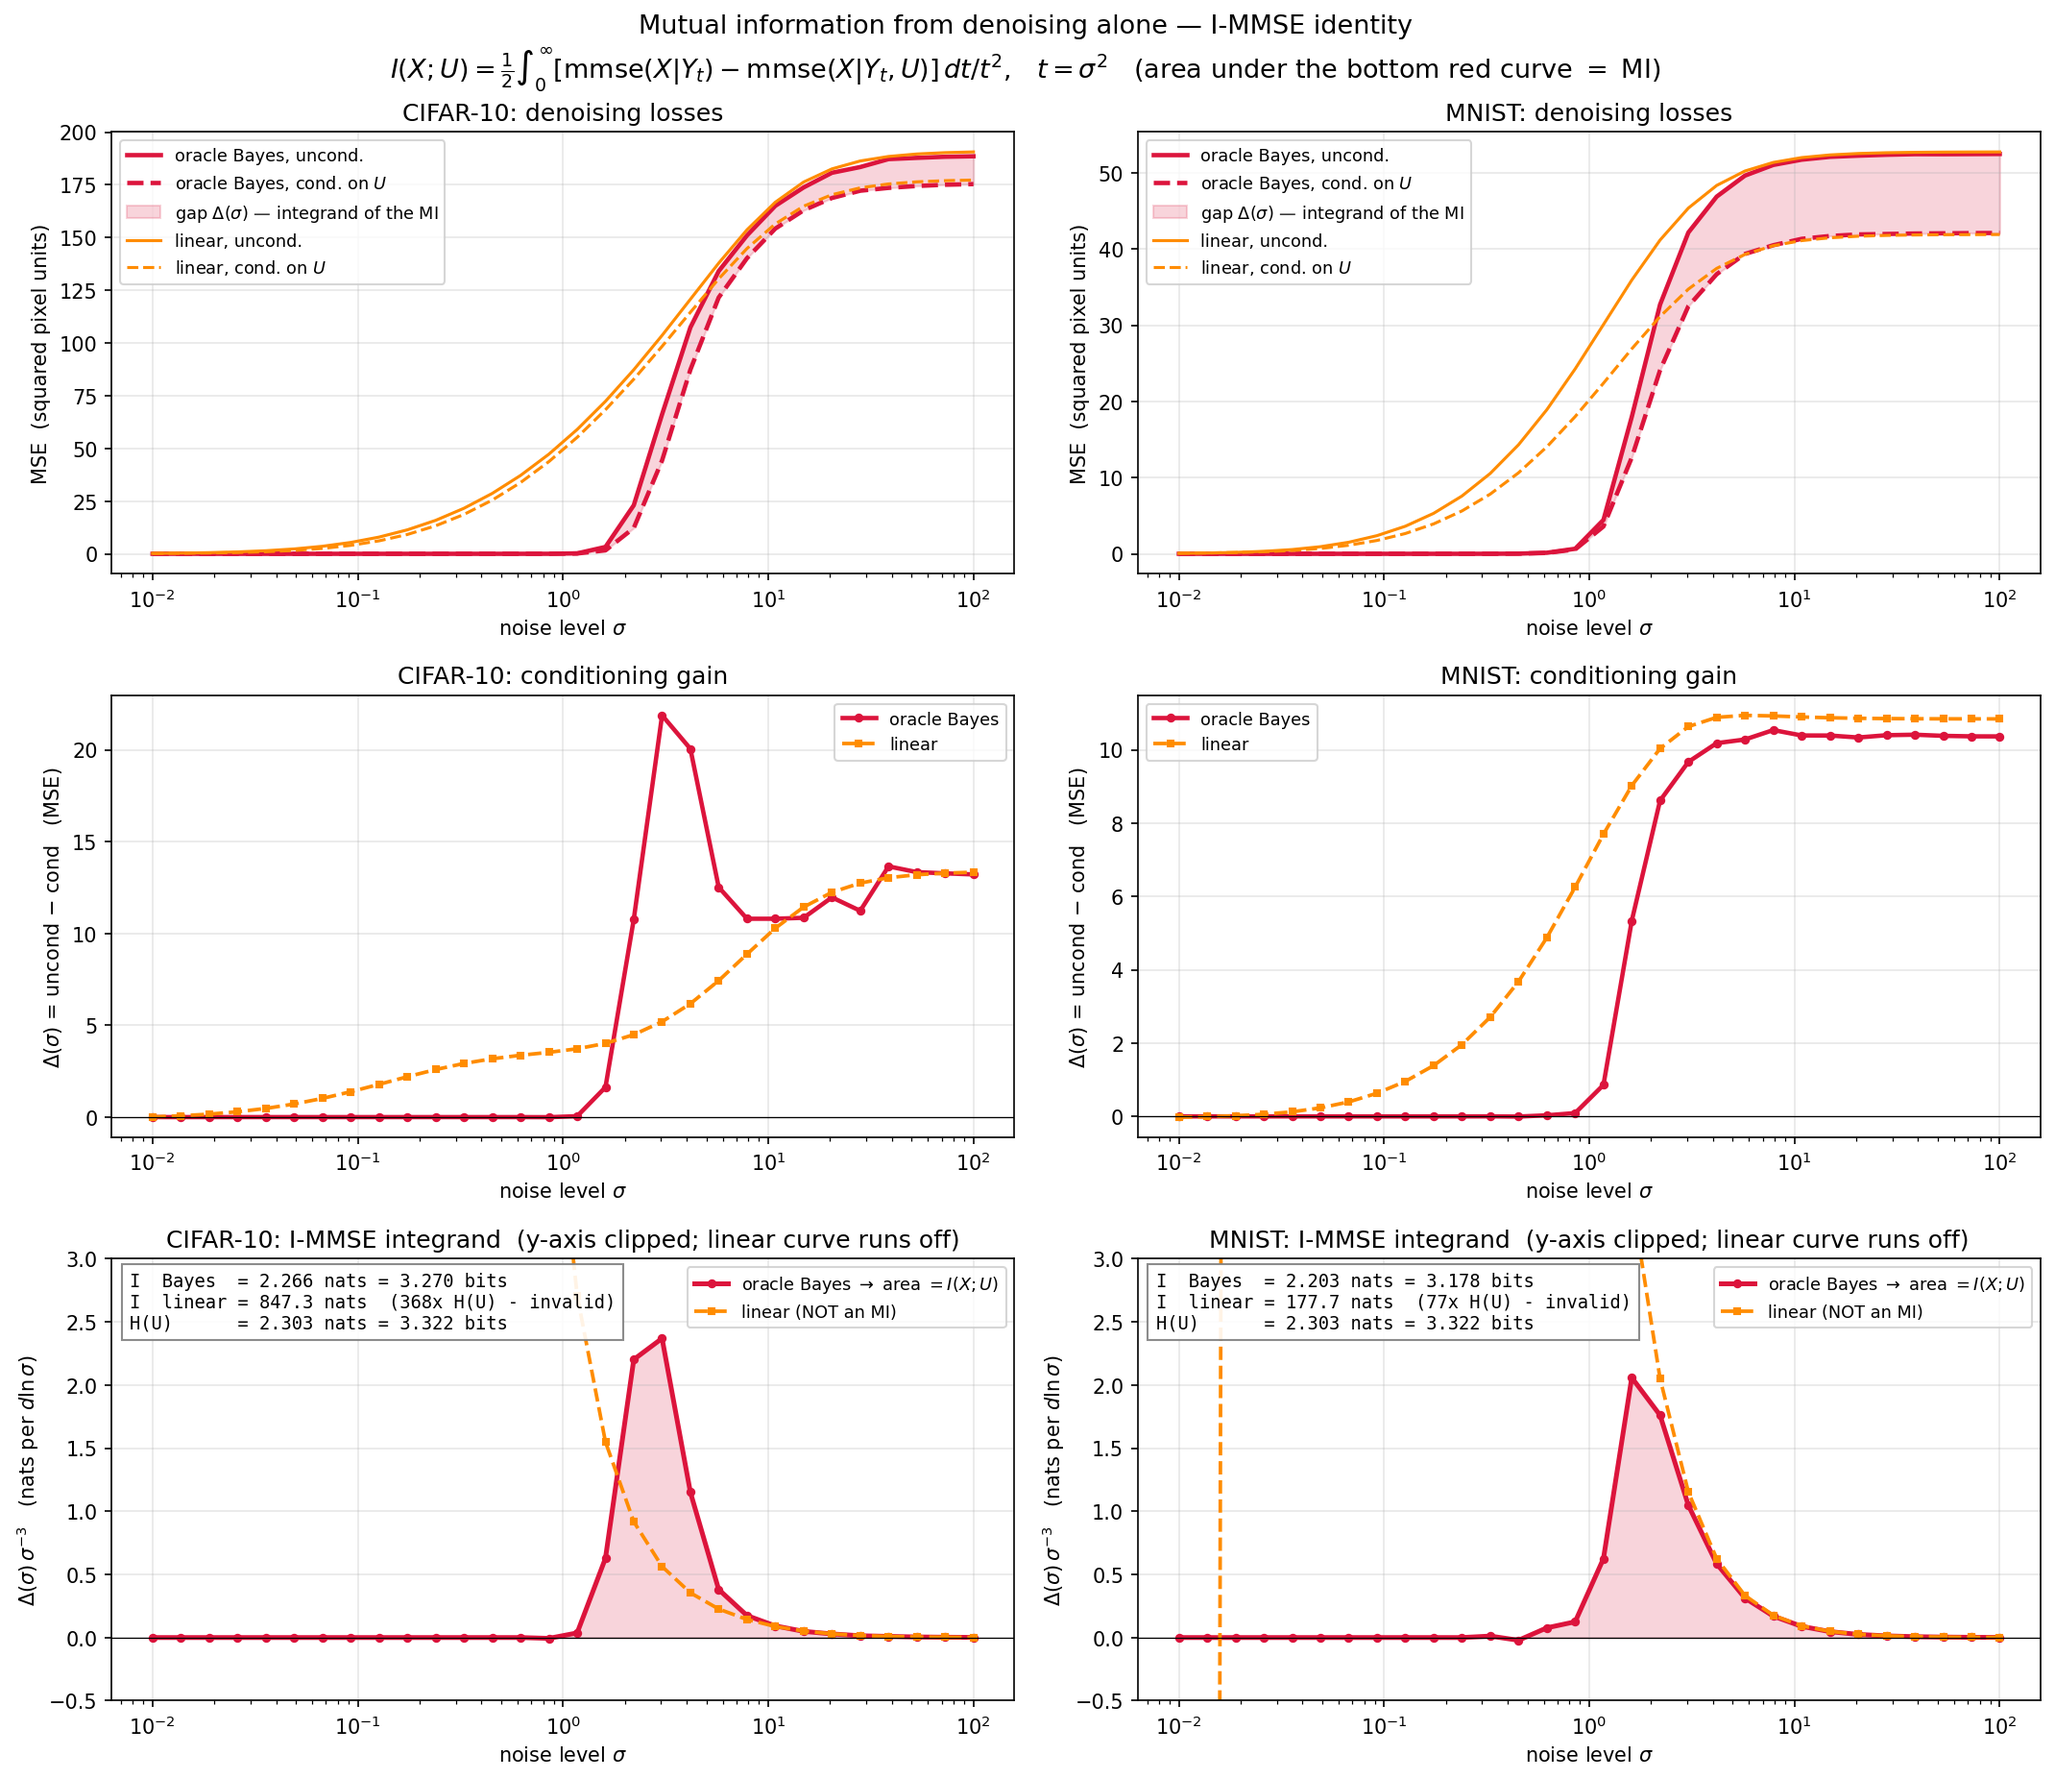
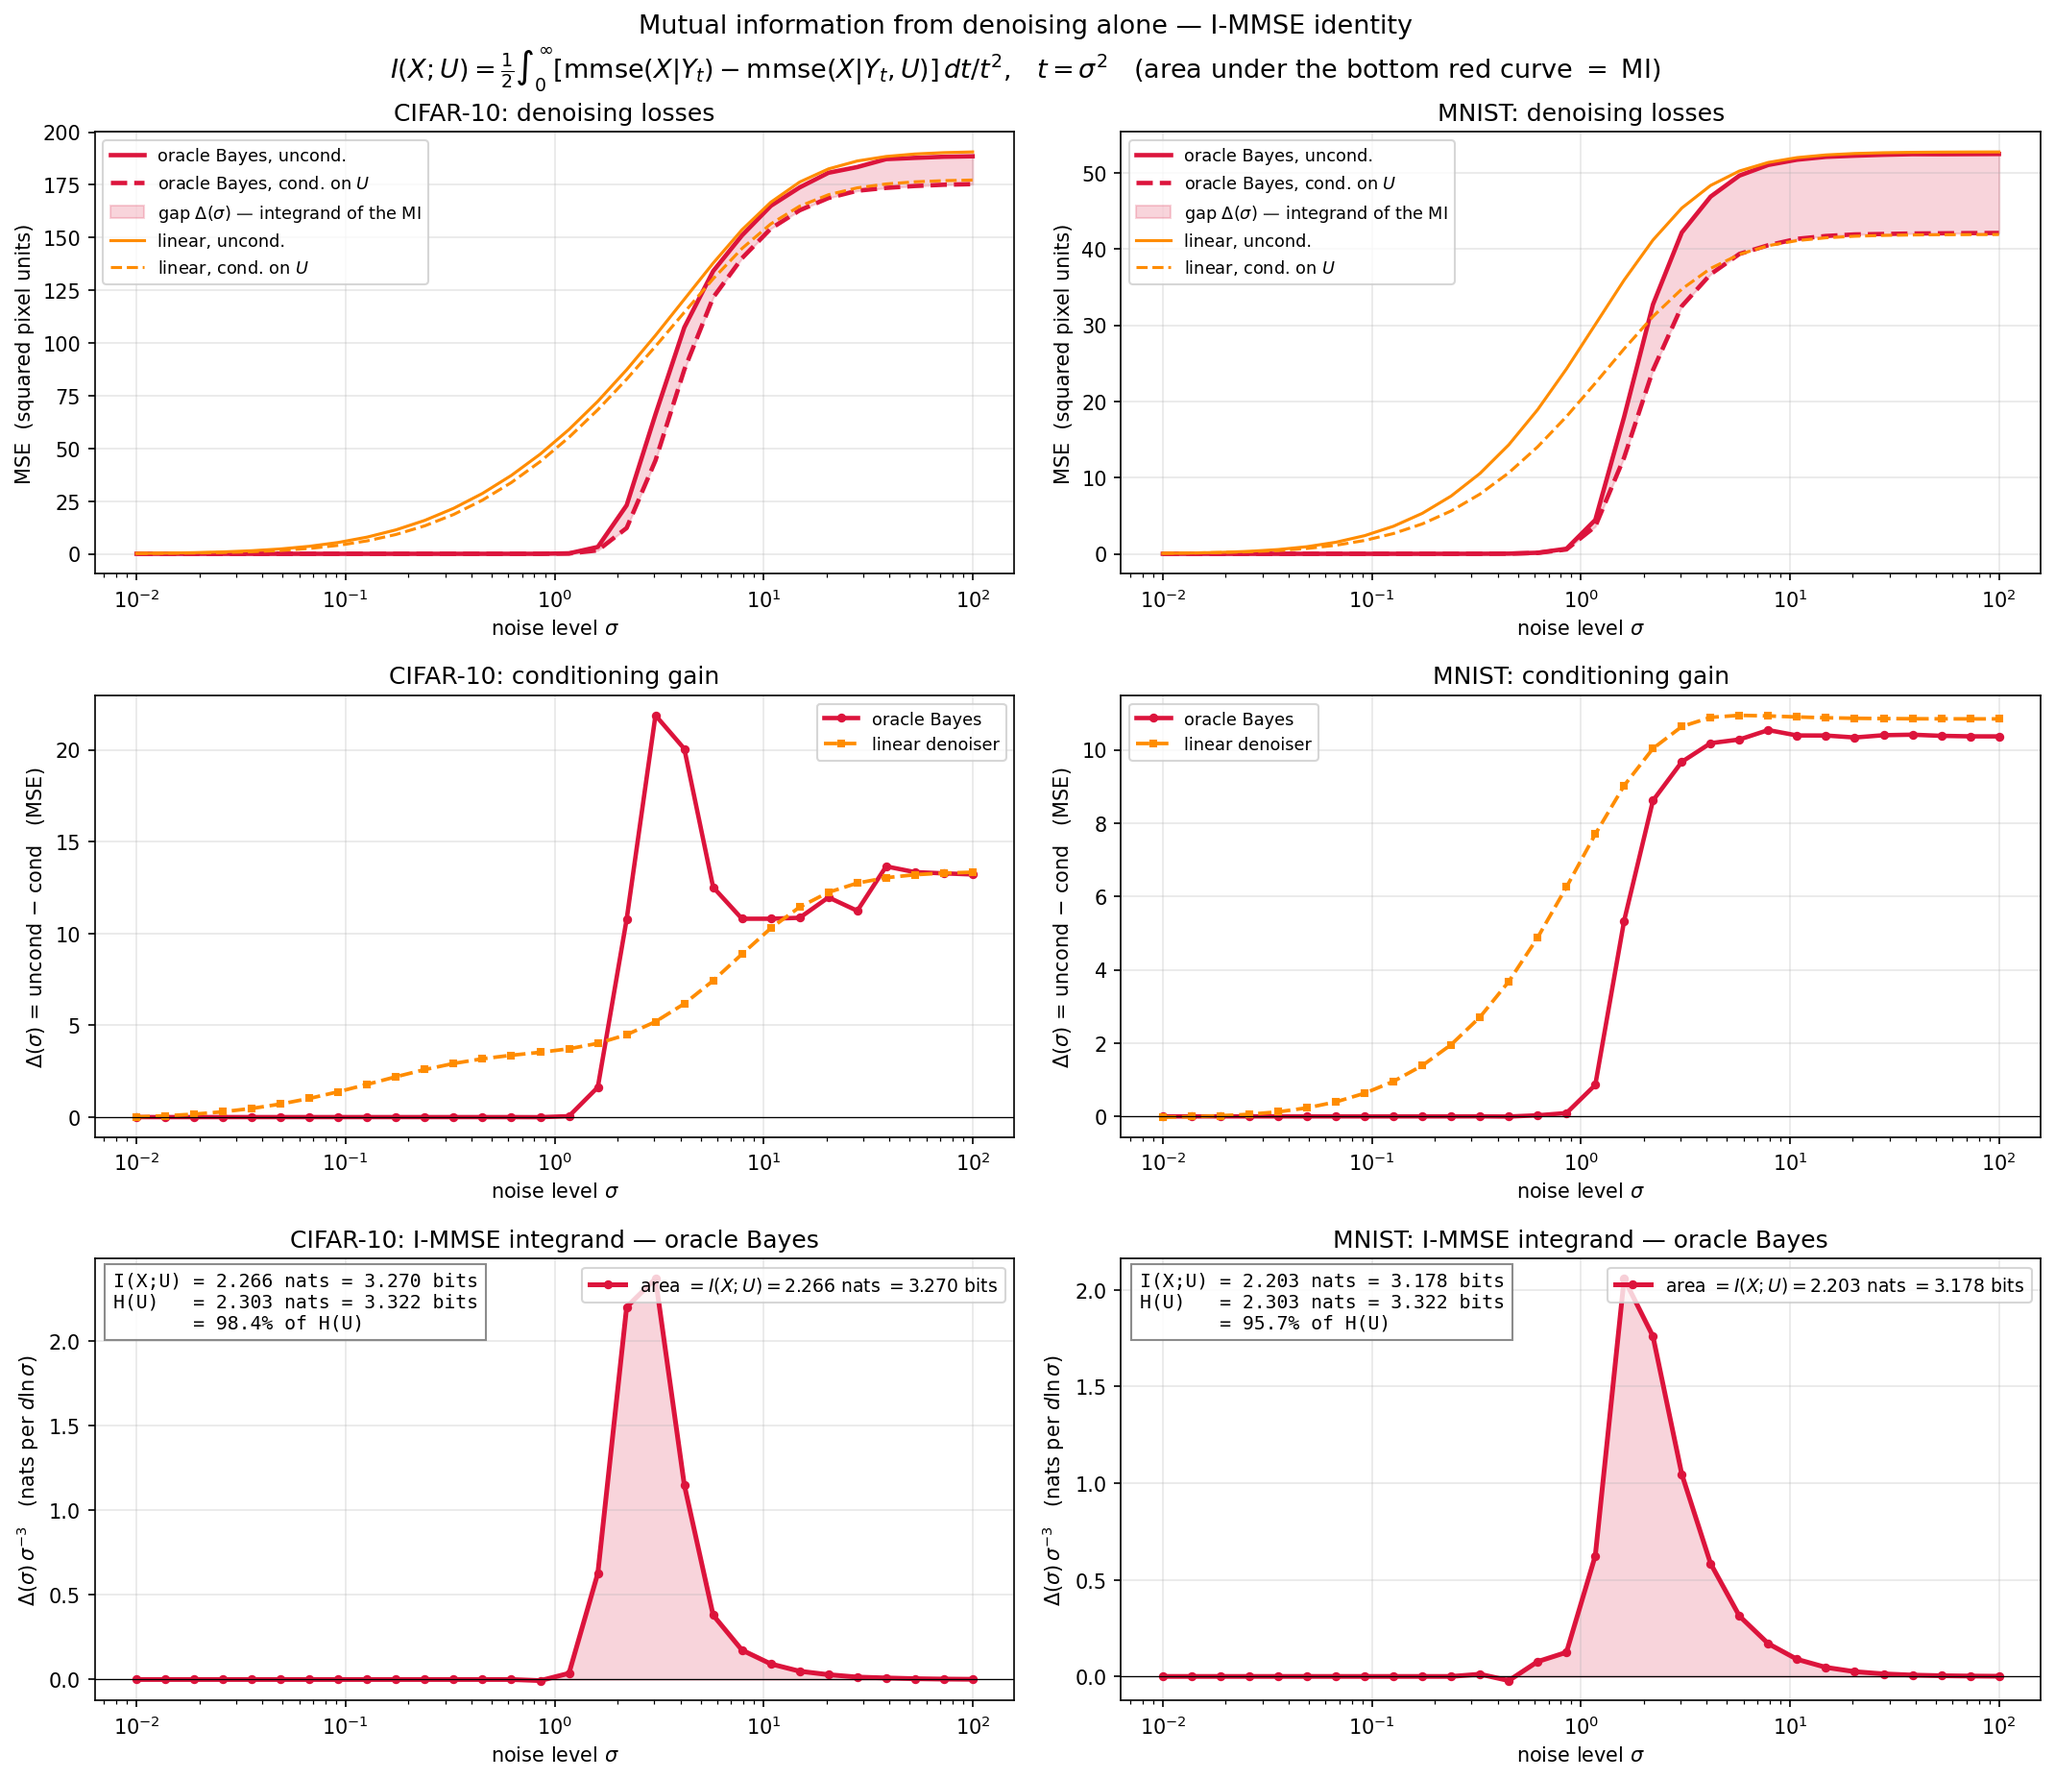
fix(mi-immse): integrand panel shows oracle Bayes only, with the MI value inline
- Drop the linear curve from the integrand panel. Only the Bayes curve's area is a
  mutual information, so showing the linear one there invited reading an area off a
  quantity that is not an MI. The linear comparison stays in the loss and gap panels
  (and in the printout), where it belongs.
- Remove the "(NOT an MI)" / "invalid" wording from the legends.
- Legend now carries the number: "area = I(X;U) = 2.266 nats = 3.270 bits".
- Info box reduced to I(X;U), H(U) and the percentage; y-axis no longer clipped
  (nothing runs off now), so the clipping note is gone from the title.

diff --git a/scripts/mi_from_immse.py b/scripts/mi_from_immse.py
@@ -145,32 +145,33 @@ def main():
         # ---- row 1: the gap alone
         ax1 = axes[1, j]
         ax1.semilogx(s_, r['gb'], color='crimson', lw=2.2, marker='o', ms=3.5, label='oracle Bayes')
-        ax1.semilogx(s_, r['gl'], color='darkorange', lw=1.8, ls='--', marker='s', ms=3, label='linear')
+        ax1.semilogx(s_, r['gl'], color='darkorange', lw=1.8, ls='--', marker='s', ms=3,
+                     label='linear denoiser')
         ax1.axhline(0, color='k', lw=.6)
         ax1.set_xlabel('noise level $\\sigma$')
         ax1.set_ylabel(r'$\Delta(\sigma)$ = uncond $-$ cond   (MSE)')
         ax1.set_title(f"{r['name']}: conditioning gain"); ax1.grid(True, alpha=.3)
         ax1.legend(fontsize=8.5)
 
-        # ---- row 2: the I-MMSE integrand, in NATS per d ln sigma (area = MI in nats)
+        # ---- row 2: the I-MMSE integrand, in NATS per d ln sigma (area = MI in nats).
+        # Bayes only: this panel IS the mutual information, and the linear curve is not a
+        # mutual information, so plotting it here would invite reading an area off it.
+        # The linear comparison lives in rows 0-1 and in the printout.
         ax2 = axes[2, j]
         ax2.semilogx(s_, r['intb'], color='crimson', lw=2.4, marker='o', ms=3.5,
-                     label=r'oracle Bayes $\rightarrow$ area $= I(X;U)$')
-        ax2.semilogx(s_, r['intl'], color='darkorange', lw=1.8, ls='--', marker='s', ms=3,
-                     label='linear (NOT an MI)')
+                     label=f"area $= I(X;U) = {r['Ib']:.3f}$ nats $= {r['Ib']/LOG2:.3f}$ bits")
         ax2.fill_between(s_, 0, r['intb'], color='crimson', alpha=.18)
         ax2.axhline(0, color='k', lw=.6)
-        ax2.set_ylim(-0.5, max(3.0, 1.15 * float(np.max(r['intb']))))
         ax2.set_xlabel('noise level $\\sigma$')
         ax2.set_ylabel(r'$\Delta(\sigma)\,\sigma^{-3}$   (nats per $d\ln\sigma$)')
-        ax2.set_title(f"{r['name']}: I-MMSE integrand  (y-axis clipped; linear curve runs off)")
+        ax2.set_title(f"{r['name']}: I-MMSE integrand — oracle Bayes")
         ax2.grid(True, alpha=.3)
-        txt = (f"I  Bayes  = {r['Ib']:.3f} nats = {r['Ib']/LOG2:.3f} bits\n"
-               f"I  linear = {r['Il']:.1f} nats  ({r['Il']/r['H_U']:.0f}x H(U) - invalid)\n"
-               f"H(U)      = {r['H_U']:.3f} nats = {r['H_U']/LOG2:.3f} bits")
-        ax2.text(.02, .97, txt, transform=ax2.transAxes, va='top', fontsize=9,
+        txt = (f"I(X;U) = {r['Ib']:.3f} nats = {r['Ib']/LOG2:.3f} bits\n"
+               f"H(U)   = {r['H_U']:.3f} nats = {r['H_U']/LOG2:.3f} bits\n"
+               f"       = {100*r['Ib']/r['H_U']:.1f}% of H(U)")
+        ax2.text(.02, .97, txt, transform=ax2.transAxes, va='top', fontsize=9.5,
                  family='monospace', bbox=dict(fc='white', alpha=.9, ec='gray'))
-        ax2.legend(fontsize=8.5, loc='upper right')
+        ax2.legend(fontsize=9, loc='upper right')
     fig.tight_layout()
     os.makedirs('figures', exist_ok=True)
     out = 'figures/mi_from_immse.png'
